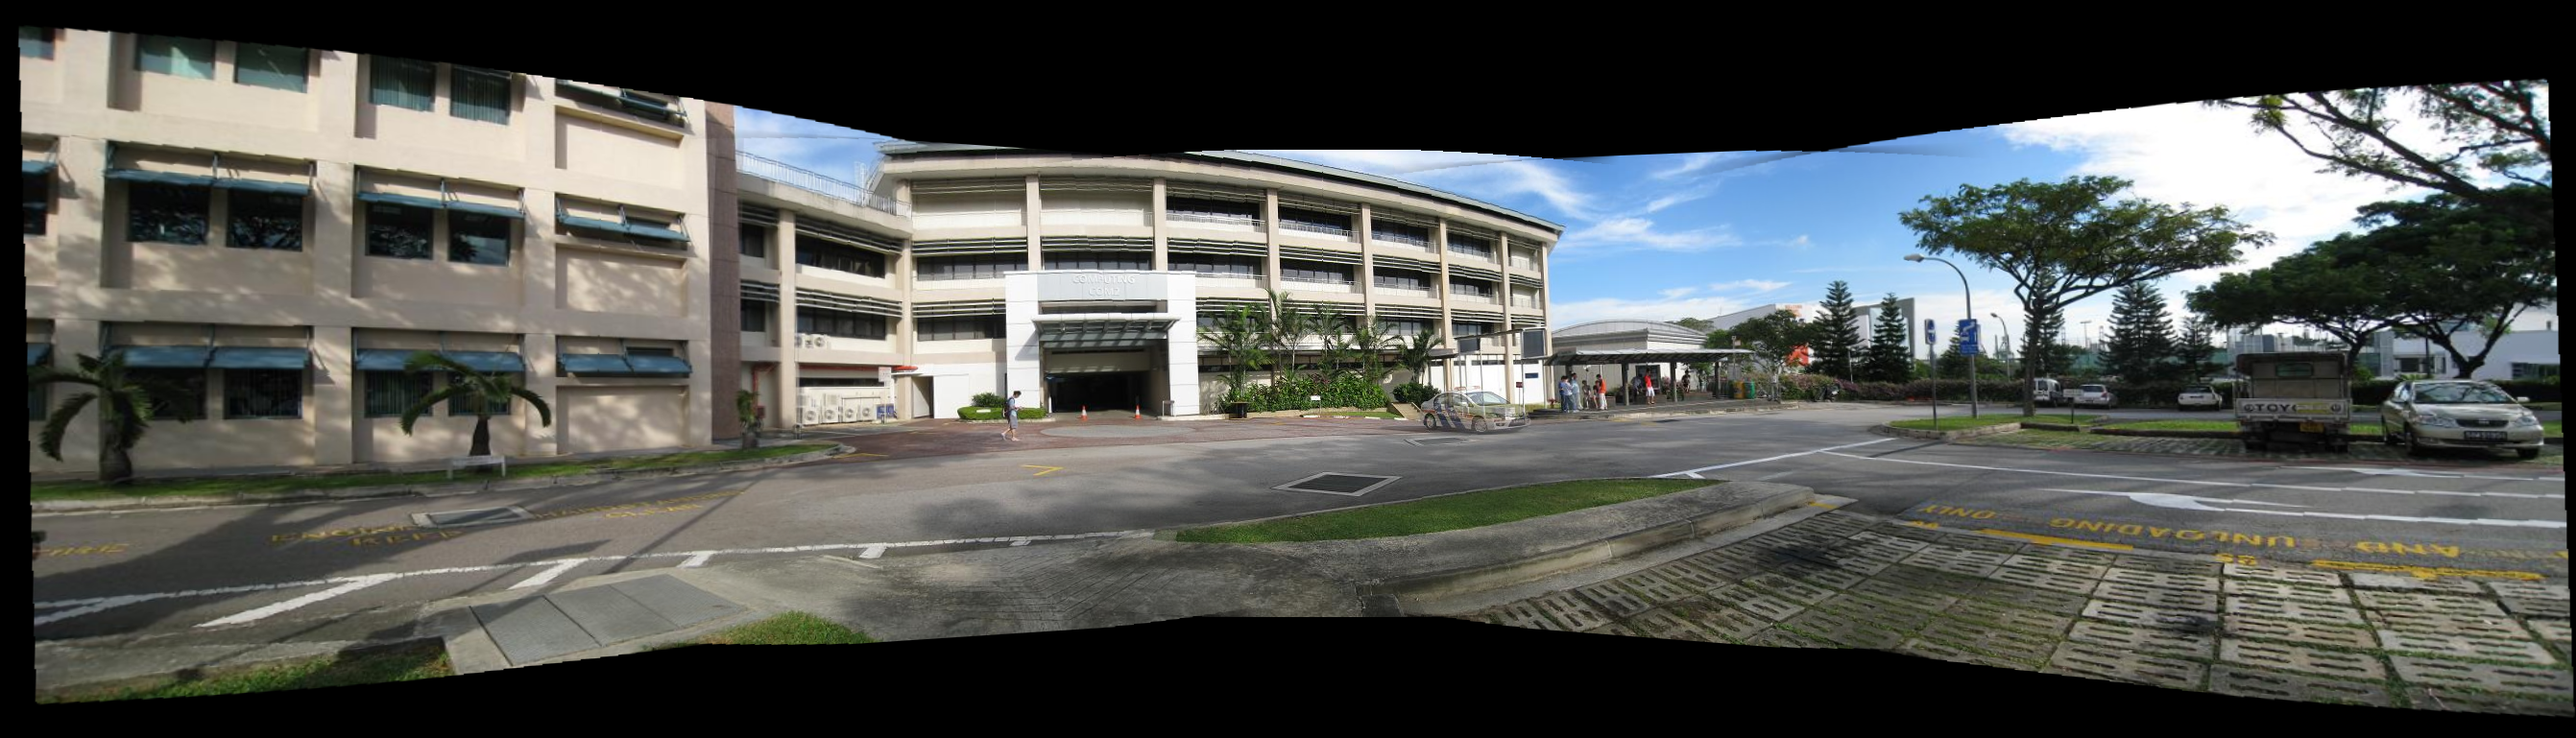
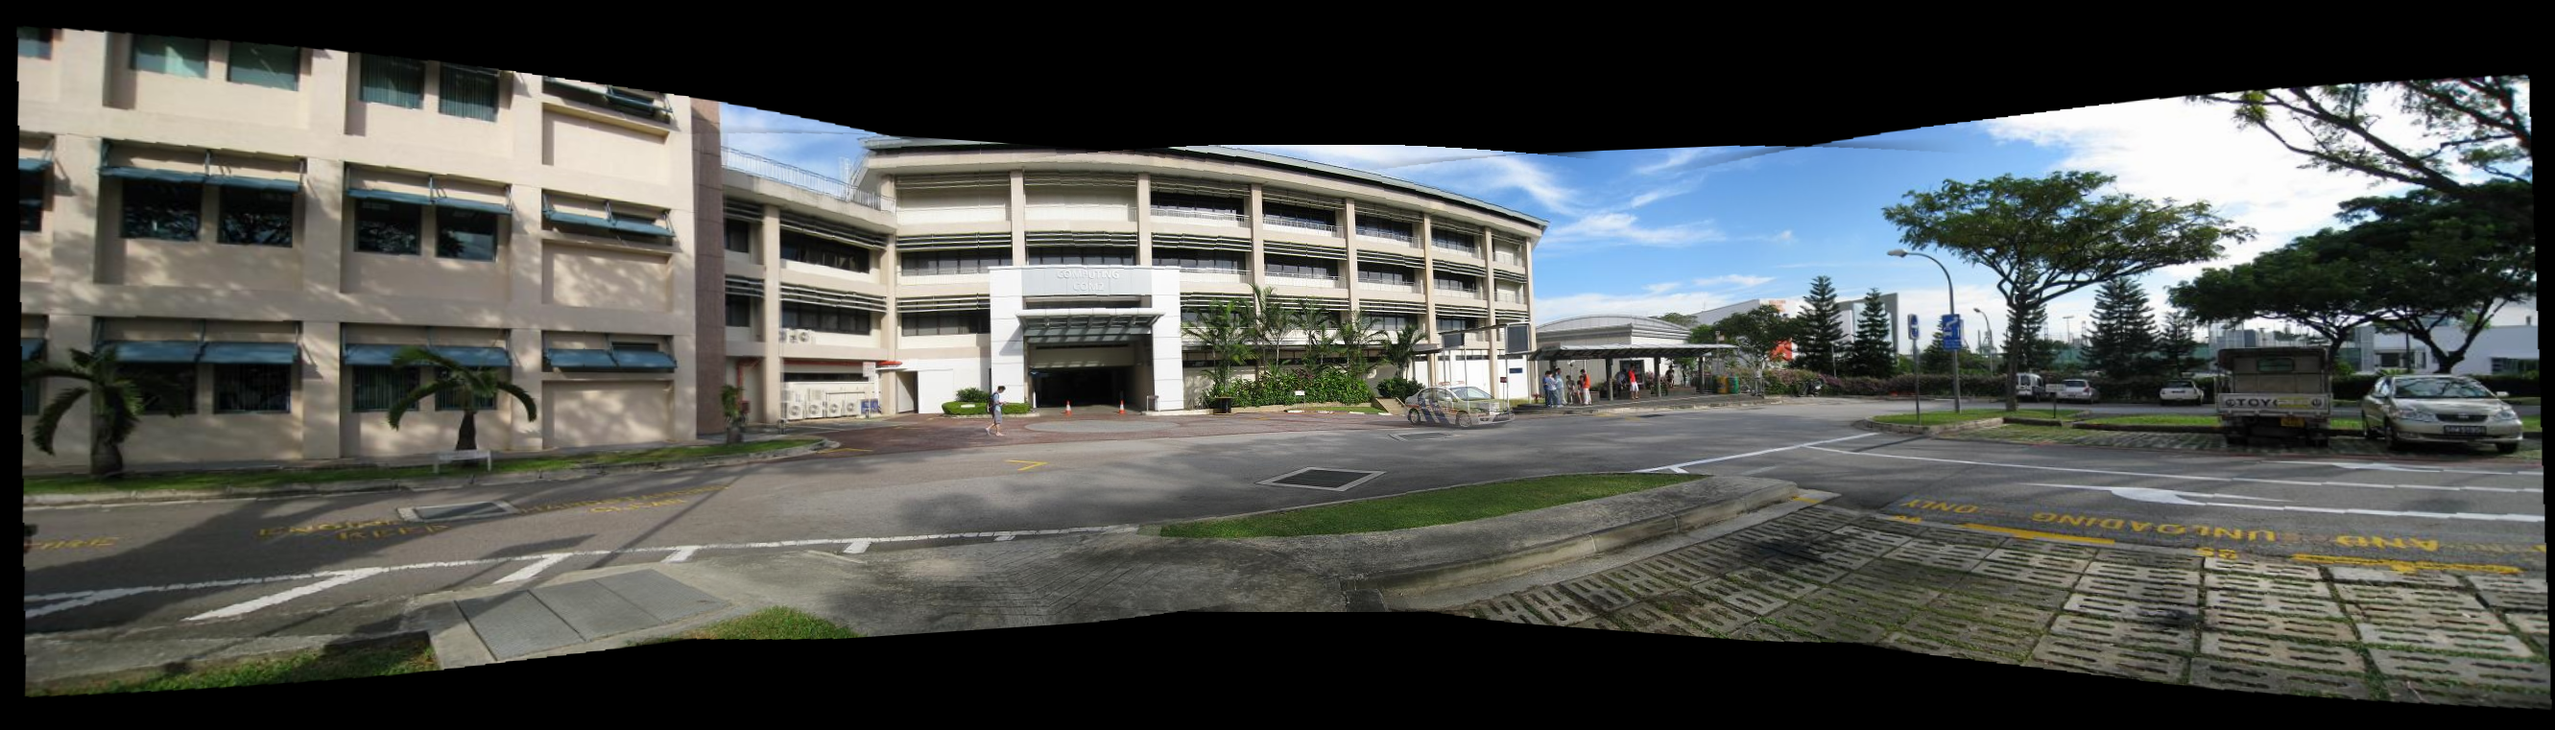
ok

diff --git a/src/Debojit/stitcher.py b/src/Debojit/stitcher.py
@@ -182,13 +182,15 @@ class PanaromaStitcher:
         warped_mask1 = cv2.warpPerspective(img_mask, adjusted_H, (width, height))
         warped_mask2 = cv2.warpPerspective(mask, translation_matrix, (width, height))
         # Normalize the masks
-        combined_mask = warped_mask1 + warped_mask2
+        combined_mask = warped_mask1 + warped_mask2 + 1e-8
         normalized_mask1 = np.divide(warped_mask1, combined_mask, where=combined_mask > 0)
         normalized_mask2 = np.divide(warped_mask2, combined_mask, where=combined_mask > 0)
 
         # Blend images with masks
         blended = (warped_img * normalized_mask1[:, :, None] + warped_base * normalized_mask2[:, :, None]).astype(np.uint8)
 
+        blended = np.clip(blended, 0, 255).astype(np.uint8)
+        
         return blended, combined_mask/combined_mask.max()
 
     def right_apply_homography(self, img, H, base_img, img_mask):
@@ -221,13 +223,15 @@ class PanaromaStitcher:
         warped_mask1 = cv2.warpPerspective(img_mask, adjusted_H, (width, height))
         warped_mask2 = cv2.warpPerspective(mask, translation_matrix, (width, height))
         # Normalize the masks
-        combined_mask = warped_mask1 + warped_mask2
+        combined_mask = warped_mask1 + warped_mask2 + 1e-8
         normalized_mask1 = np.divide(warped_mask1, combined_mask, where=combined_mask > 0)
         normalized_mask2 = np.divide(warped_mask2, combined_mask, where=combined_mask > 0)
 
         # Blend images with masks
         blended = (warped_img * normalized_mask1[:, :, None] + warped_base * normalized_mask2[:, :, None]).astype(np.uint8)
 
+        blended = np.clip(blended, 0, 255).astype(np.uint8)
+        
         return blended, combined_mask/combined_mask.max()
 
     def combined_apply_homography(self, right_panorama, left_panorama, final_H, mask_right, mask_left):
@@ -264,13 +268,15 @@ class PanaromaStitcher:
         warped_mask2 = cv2.warpPerspective(mask_right, adjusted_H_right, (width, height))
         
         # Normalize the masks
-        combined_mask = warped_mask1 + warped_mask2
+        combined_mask = warped_mask1 + warped_mask2 + 1e-8
         normalized_mask1 = np.divide(warped_mask1, combined_mask, where=combined_mask > 0)
         normalized_mask2 = np.divide(warped_mask2, combined_mask, where=combined_mask > 0)
         
         # Blend images with masks
         blended = (warped_left * normalized_mask1[:, :, None] + warped_right * normalized_mask2[:, :, None]).astype(np.uint8)
 
+        blended = np.clip(blended, 0, 255).astype(np.uint8)
+        
         return blended, combined_mask/combined_mask.max()
 
 
